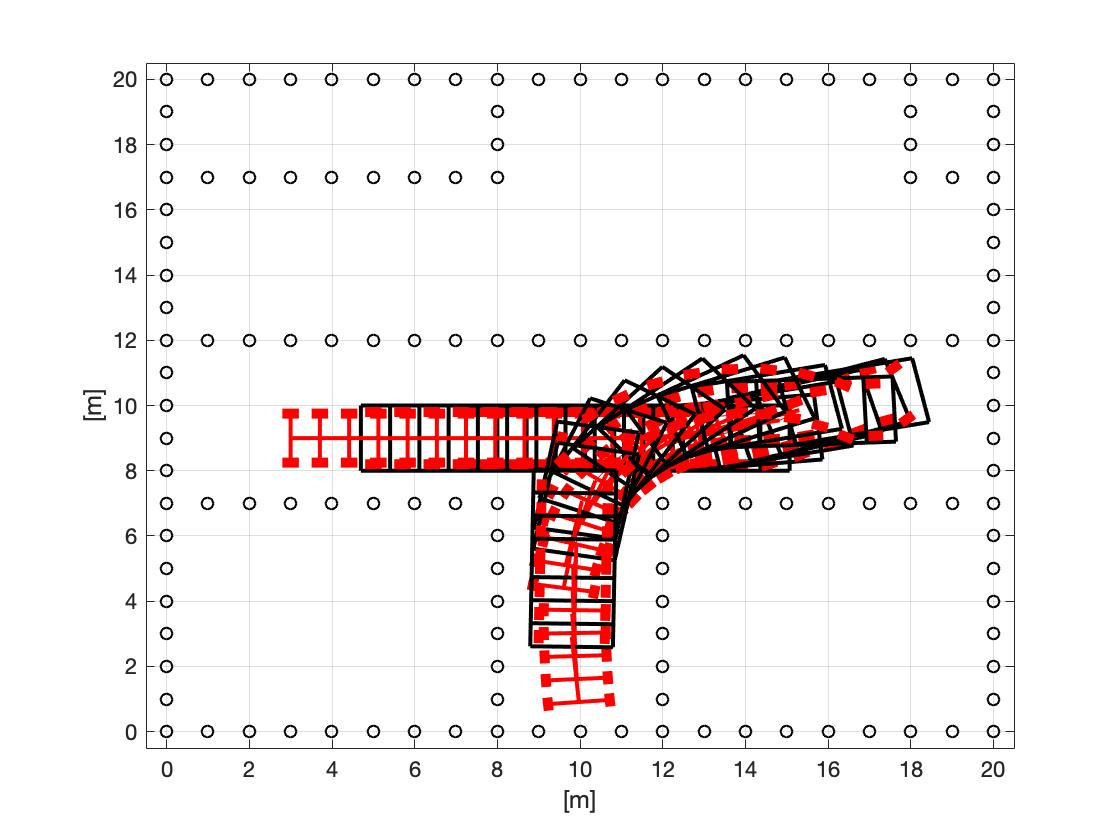
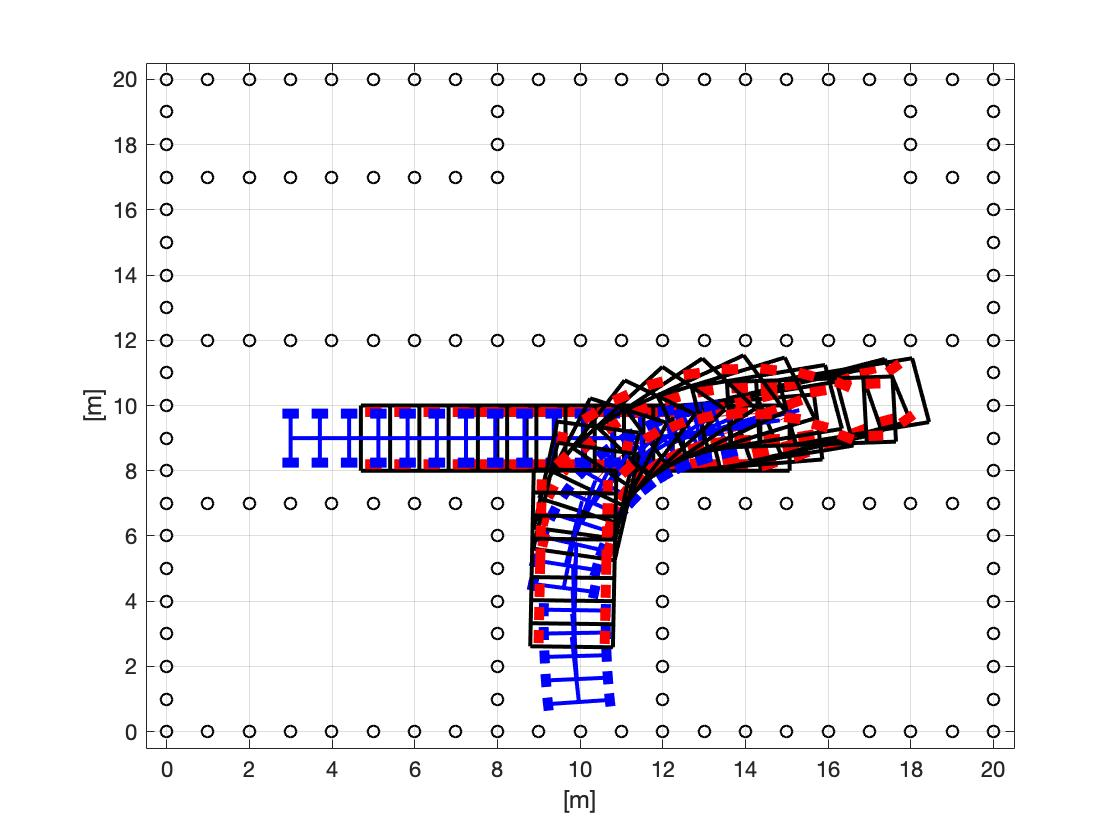
resize gifs

Changed region(s): [[0.25, 0.4643, 0.6875, 0.8667], [0.6875, 0.4643, 0.7188, 0.4952]]

diff --git a/PathPlanning/hybridAStar_Trailer.m b/PathPlanning/hybridAStar_Trailer.m
@@ -178,7 +178,7 @@ classdef hybridAStar_Trailer < handle
             DimY = obj.MapDimY;
             
             h = figure;
-            
+            set(gcf,'color','w');
             hold off;
             if length(obstacle)>=1
                 plot(obstacle(:,1),obstacle(:,2),'ok');hold on;
@@ -207,7 +207,7 @@ classdef hybridAStar_Trailer < handle
                 h1 = figure;
                 
                 set(gcf,'position',[200,100,800,750])
-                
+                set(gcf,'color','w');
                 for i=1:length(path(:,1))
                     if i == 1
                         hold off;
@@ -423,10 +423,10 @@ classdef hybridAStar_Trailer < handle
             
             figure(h)
             hold on
-            plot(rear(:,1), rear(:,2), 'LineWidth',2, 'color', 'r')
-            plot(rod(:,1), rod(:,2), 'LineWidth',2, 'color', 'r')
-            plot(wl(:,1), wl(:,2), 'LineWidth',5, 'color', 'r')
-            plot(wr(:,1), wr(:,2), 'LineWidth',5, 'color', 'r')
+            plot(rear(:,1), rear(:,2), 'LineWidth',2, 'color', 'b')
+            plot(rod(:,1), rod(:,2), 'LineWidth',2, 'color', 'b')
+            plot(wl(:,1), wl(:,2), 'LineWidth',5, 'color', 'b')
+            plot(wr(:,1), wr(:,2), 'LineWidth',5, 'color', 'b')
         end
         
         function drawCar(obj, h, x, y, theta, steering)

diff --git a/PathPlanning/hybridAStar_CarTrailer.m b/PathPlanning/hybridAStar_CarTrailer.m
@@ -181,7 +181,8 @@ classdef hybridAStar_CarTrailer < handle
             DimY = obj.MapDimY;
             
             h = figure;
-            
+            set(gcf,'color','w');
+
             hold off;
             if length(obstacle)>=1
                 plot(obstacle(:,1),obstacle(:,2),'ok');hold on;
@@ -210,7 +211,8 @@ classdef hybridAStar_CarTrailer < handle
                 h1 = figure;
                 
                 set(gcf,'position',[200,100,800,750])
-                
+                set(gcf,'color','w');
+
                 for i=1:length(path(:,1))
                     if i == 1
                         hold off;
